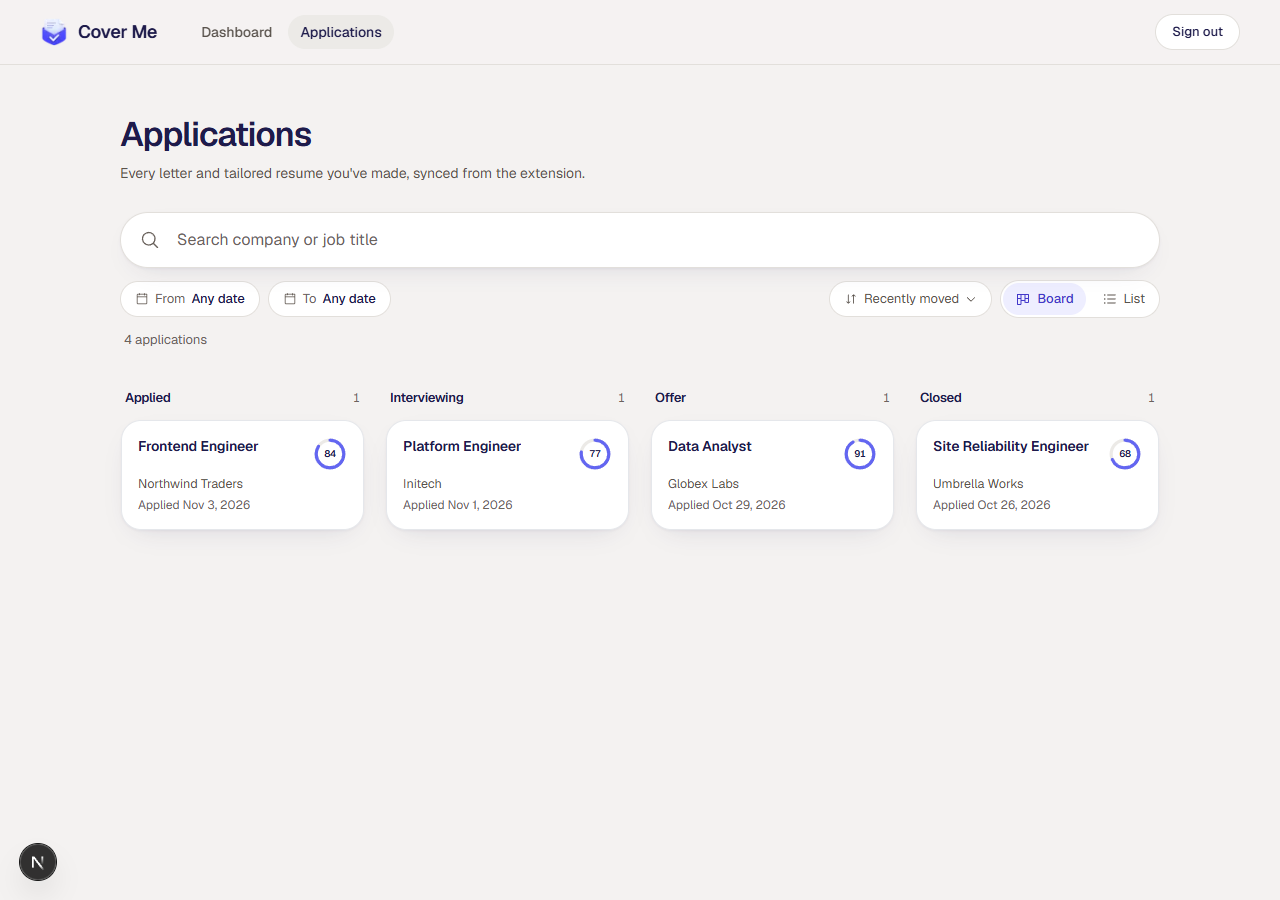
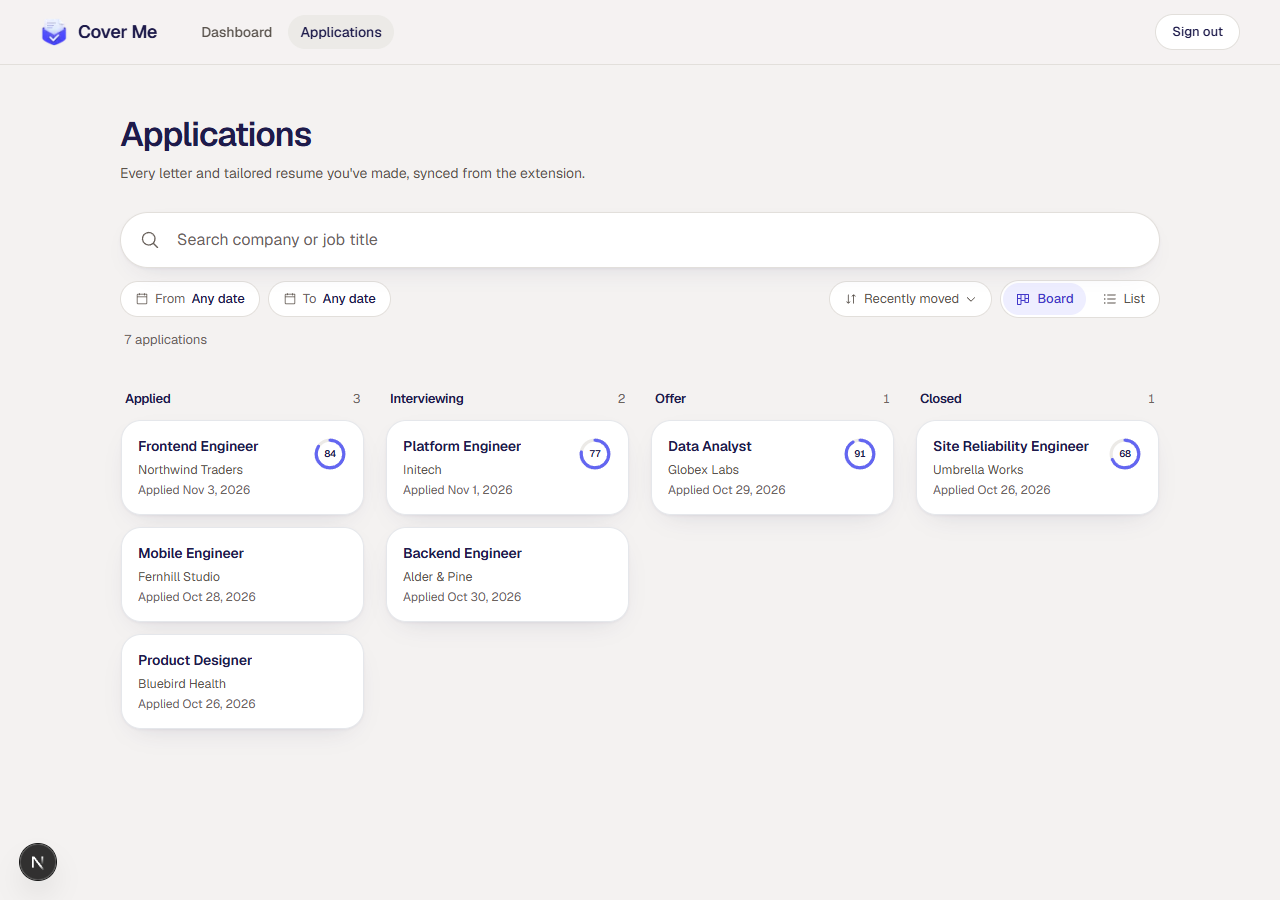
Board on phones: one stacked column, each stage header collapses and expands it (#100)

diff --git a/web/app/dashboard/applications/ApplicationsBoard.tsx b/web/app/dashboard/applications/ApplicationsBoard.tsx
@@ -1,7 +1,9 @@
 'use client'
 
-import { useEffect, useRef, useState, type ReactNode } from 'react'
+import { useEffect, useRef, useState, useSyncExternalStore, type ReactNode } from 'react'
 import { DndContext, DragOverlay, MouseSensor, useDraggable, useDroppable, useSensor, useSensors, type Announcements } from '@dnd-kit/core'
+import { CaretDownIcon } from '@phosphor-icons/react/dist/ssr'
+import { Collapsible, CollapsibleContent, CollapsibleTrigger } from '@/components/ui/collapsible'
 import { STAGE_LABEL, STAGES, type ApplicationSummary, type Stage, type StageState } from '@/lib/applications'
 import { cn } from '@/lib/utils'
 import { ApplicationCard } from './ApplicationCard'
@@ -17,6 +19,20 @@ const EMPTY: Record<Stage, string> = {
 const name = (app: ApplicationSummary) => `${app.title || 'Untitled role'}${app.company ? ` at ${app.company}` : ''}`
 const dragged = (data: unknown) => data as ApplicationSummary
 const toStage = (id: unknown) => (STAGES.includes(id as Stage) ? (id as Stage) : null)
+
+// Below md the columns stack into one, and each can be collapsed.
+const PHONE = '(max-width: 767px)'
+function usePhone() {
+  return useSyncExternalStore(
+    (onChange) => {
+      const query = window.matchMedia(PHONE)
+      query.addEventListener('change', onChange)
+      return () => query.removeEventListener('change', onChange)
+    },
+    () => window.matchMedia(PHONE).matches,
+    () => false,
+  )
+}
 
 // Read out by dnd-kit's live region as a card is dragged.
 const announcements: Announcements = {
@@ -42,6 +58,10 @@ export function ApplicationsBoard({ applications, onMove, onDeleted, onStageChan
   // A few pixels before a drag starts, so a click still opens the drawer.
   const sensors = useSensors(useSensor(MouseSensor, { activationConstraint: { distance: 6 } }))
   const [active, setActive] = useState<ApplicationSummary | null>(null)
+  const phone = usePhone()
+  // Stages collapsed on a phone; every column starts open.
+  const [collapsed, setCollapsed] = useState<Stage[]>([])
+  const toggle = (stage: Stage, open: boolean) => setCollapsed((list) => (open ? list.filter((s) => s !== stage) : [...list, stage]))
 
   // A stage changed from the drawer reaches the board as it closes, and the
   // card remounts in its new column: focus follows it there instead of
@@ -54,6 +74,8 @@ export function ApplicationsBoard({ applications, onMove, onDeleted, onStageChan
   })
   function stageChanged(id: string, state: StageState) {
     refocus.current = id
+    // A card moved into a collapsed column opens it, so focus can follow.
+    toggle(state.stage, true)
     onStageChange(id, state)
   }
 
@@ -69,14 +91,23 @@ export function ApplicationsBoard({ applications, onMove, onDeleted, onStageChan
         if (to) onMove(dragged(active.data.current), to)
       }}
     >
-      {/* All four columns fit from about 1000px wide; narrower screens scroll
-          them sideways. The scroller clips, so its padding leaves room for the
-          outlines and the tile shadows. */}
-      <div className="-mx-5 -mb-8 -mt-2 grid auto-cols-[minmax(224px,1fr)] grid-flow-col gap-5 overflow-x-auto px-5 pb-8 pt-2">
+      {/* Phones stack the columns. From md all four sit side by side, fitting
+          from about 1000px wide; narrower screens scroll them sideways. The
+          scroller clips, so its padding leaves room for the outlines and the
+          tile shadows. */}
+      <div className="-mx-5 -mb-8 -mt-2 flex flex-col gap-4 px-5 pb-8 pt-2 md:grid md:auto-cols-[minmax(224px,1fr)] md:grid-flow-col md:gap-5 md:overflow-x-auto">
         {STAGES.map((stage) => {
           const cards = applications.filter((a) => a.stage === stage)
           return (
-            <Column key={stage} stage={stage} count={cards.length} dragging={active !== null}>
+            <Column
+              key={stage}
+              stage={stage}
+              count={cards.length}
+              dragging={active !== null}
+              collapsible={phone}
+              open={!phone || !collapsed.includes(stage)}
+              onOpenChange={(open) => toggle(stage, open)}
+            >
               {cards.length === 0 ? (
                 <p className="rounded-[20px] border border-dashed border-line px-4 py-5 text-[13px] leading-snug text-ink-2">{EMPTY[stage]}</p>
               ) : cards.map((app) => (
@@ -103,25 +134,51 @@ export function ApplicationsBoard({ applications, onMove, onDeleted, onStageChan
 
 // Tiles sit on paper (DESIGN.md's Floating Tile Rule). While a card is
 // dragged, each column shows a dashed outline as a place it can go, and the
-// one under the pointer turns Cover Me Indigo.
-function Column({ stage, count, dragging, children }: { stage: Stage; count: number; dragging: boolean; children: ReactNode }) {
+// one under the pointer turns Cover Me Indigo. On a phone the header is a
+// button that collapses the column; a collapsed one still takes a drop.
+function Column({ stage, count, dragging, collapsible, open, onOpenChange, children }: {
+  stage: Stage
+  count: number
+  dragging: boolean
+  collapsible: boolean
+  open: boolean
+  onOpenChange: (open: boolean) => void
+  children: ReactNode
+}) {
   const { setNodeRef, isOver } = useDroppable({ id: stage })
+  const label = (
+    <>
+      <span className="cap-center">{STAGE_LABEL[stage]}</span>{' '}
+      <span className="cap-center ml-auto text-[12.5px] font-normal tabular-nums text-subtle">
+        {count}<span className="sr-only"> {count === 1 ? 'application' : 'applications'}</span>
+      </span>
+    </>
+  )
   return (
-    <section
-      ref={setNodeRef}
-      aria-labelledby={`stage-${stage}`}
-      className={cn(
-        '-m-2 flex min-h-[220px] flex-col gap-3 rounded-[20px] border border-dashed border-transparent p-2 transition-colors',
-        dragging && 'border-line',
-        isOver && 'border-brand-strong',
-      )}
-    >
-      <h2 id={`stage-${stage}`} className="flex items-baseline justify-between px-1 text-[13px] font-semibold text-ink">
-        {STAGE_LABEL[stage]}
-        <span className="text-[12.5px] font-normal tabular-nums text-subtle">{count}</span>
-      </h2>
-      {children}
-    </section>
+    <Collapsible open={open} onOpenChange={onOpenChange} asChild>
+      <section
+        ref={setNodeRef}
+        aria-labelledby={`stage-${stage}`}
+        className={cn(
+          '-m-2 flex flex-col gap-3 rounded-[20px] border border-dashed border-transparent p-2 transition-colors md:min-h-[220px]',
+          dragging && 'border-line',
+          isOver && 'border-brand-strong',
+        )}
+      >
+        <h2 id={`stage-${stage}`} className="text-[13px] font-semibold text-ink">
+          {collapsible ? (
+            // 44px tall: a comfortable tap target.
+            <CollapsibleTrigger className="-my-2.5 flex h-11 w-full items-center gap-2 rounded-full px-1 text-left focus-visible:outline-none focus-visible:ring-2 focus-visible:ring-brand">
+              <CaretDownIcon size={14} weight="bold" aria-hidden className={cn('text-ink-2 transition-transform duration-200', !open && '-rotate-90')} />
+              {label}
+            </CollapsibleTrigger>
+          ) : (
+            <span className="flex items-baseline gap-2 px-1">{label}</span>
+          )}
+        </h2>
+        <CollapsibleContent className="flex flex-col gap-3">{children}</CollapsibleContent>
+      </section>
+    </Collapsible>
   )
 }
 

diff --git a/web/app/dashboard/applications/ApplicationCard.tsx b/web/app/dashboard/applications/ApplicationCard.tsx
@@ -177,16 +177,19 @@ export function ApplicationCard({ app: initial, onDeleted, onStageChange, compac
   if (compact) {
     return (
       <article className="relative flex flex-col gap-1 rounded-[20px] border border-line/80 bg-surface p-4 shadow-[0_1px_2px_rgba(30,27,75,0.05),0_10px_28px_-16px_rgba(30,27,75,0.22)] transition-shadow duration-200 ease-out hover:shadow-[0_1px_2px_rgba(30,27,75,0.06),0_16px_36px_-16px_rgba(30,27,75,0.32)]">
+        {/* The ring sits beside title and company, so a short title leaves no gap under it. */}
         <div className="flex items-start gap-2">
-          <h3 className="min-w-0 flex-1 text-[14px] font-semibold leading-snug tracking-[-0.01em] text-ink">
-            {/* Covers the whole card, so a click anywhere opens the drawer. */}
-            <button type="button" data-card={app.id} onClick={() => setDetailsOpen(true)} className="line-clamp-2 cursor-grab text-left after:absolute after:inset-0 after:rounded-[20px] focus-visible:outline-none focus-visible:after:ring-2 focus-visible:after:ring-brand">
-              {title}
-            </button>
-          </h3>
+          <div className="flex min-w-0 flex-1 flex-col gap-1">
+            <h3 className="text-[14px] font-semibold leading-snug tracking-[-0.01em] text-ink">
+              {/* Covers the whole card, so a click anywhere opens the drawer. */}
+              <button type="button" data-card={app.id} onClick={() => setDetailsOpen(true)} className="line-clamp-2 cursor-grab text-left after:absolute after:inset-0 after:rounded-[20px] focus-visible:outline-none focus-visible:after:ring-2 focus-visible:after:ring-brand">
+                {title}
+              </button>
+            </h3>
+            <p className="truncate text-[12.5px] leading-snug text-ink-2">{company}</p>
+          </div>
           {score !== null && <AtsRing score={score} size={34} />}
         </div>
-        <p className="truncate text-[12.5px] leading-snug text-ink-2">{company}</p>
         <p className="text-[12px] leading-snug text-subtle">Applied <LocalDate iso={app.createdAt} options={{ month: 'short', day: 'numeric', year: 'numeric' }} /></p>
         {dialogs}
       </article>

diff --git a/web/components/ui/collapsible.tsx b/web/components/ui/collapsible.tsx
@@ -1,0 +1,11 @@
+"use client"
+
+import * as CollapsiblePrimitive from "@radix-ui/react-collapsible"
+
+const Collapsible = CollapsiblePrimitive.Root
+
+const CollapsibleTrigger = CollapsiblePrimitive.CollapsibleTrigger
+
+const CollapsibleContent = CollapsiblePrimitive.CollapsibleContent
+
+export { Collapsible, CollapsibleTrigger, CollapsibleContent }

diff --git a/DESIGN.md b/DESIGN.md
@@ -263,7 +263,7 @@ The tile's signature: an outline pill per document with a download icon ("Cover 
 36px white pills under the search: two date pickers ("From Any date", "To Any date") and, in the list, one toggle per stage (Applied, Interviewing, Offer, Closed), any number on at once. Idle text is Warm Grey with a Caption Grey label. When set, the chip fills with Indigo Tint, a 40% indigo border and Indigo Ink text, and a toggle gains a check. A ghost "Clear" pill appears only while a filter is set. Date chips open the shadcn Calendar in a Popover. The chips stay on one line; when they don't fit the line scrolls sideways (out to the screen's edges on phones), with no visible scrollbar. To their right sit the sort pill (an outline pill with a sort icon, opening a radio list) and the Board / List switch, two toggles in one white pill with the active one on Indigo Tint; on phones these two take their own line under the chips. Labels in every pill carry `cap-center` (globals.css), a 0.075em nudge down, because Geist sits its capitals about 1px high in a centered control.
 
 ### Board
-Four columns, one per stage, headed by its name in 13px semibold Deep Ink and a Caption Grey count. The columns have no fill (the Floating Tile Rule). Board cards are slim white tiles (20px corners, 16px padding, tile shadows): title, company, applied date, and a small ATS ring when there is a score. The whole card opens the drawer; dragging it with a mouse moves it to another column. While a card is dragged every column shows a 20px dashed hairline outline, as a place it can go, and the one under the pointer turns Cover Me Indigo. An empty column holds a dashed note saying what puts a card there. Below about 1000px wide the columns scroll sideways. Board is the default from 768px, List below.
+Four columns, one per stage, headed by its name in 13px semibold Deep Ink and a Caption Grey count. The columns have no fill (the Floating Tile Rule). Board cards are slim white tiles (20px corners, 16px padding, tile shadows): title and company with a small ATS ring beside them when there is a score, then the applied date. The whole card opens the drawer; dragging it with a mouse moves it to another column. While a card is dragged every column shows a 20px dashed hairline outline, as a place it can go, and the one under the pointer turns Cover Me Indigo. An empty column holds a dashed note saying what puts a card there. Below about 1000px wide the columns scroll sideways. On phones (under 768px) they stack into one column, and each header becomes a 44px button with a caret (down when open, right when collapsed) that collapses and expands it; every column starts open. Board is the default from 768px, List below.
 
 ### Application tile
 White, 20px corners, 20px padding, tile shadow. Top row: the monogram (company initial on Indigo Tint), the job title as a button that opens the drawer, then company and applied date in Warm Grey, and a ghost ⋮ menu (view details, go to posting, delete). Bottom row: document chips on the left; the stage pill and "Details" on the right. On phones "Details" collapses to its caret.
